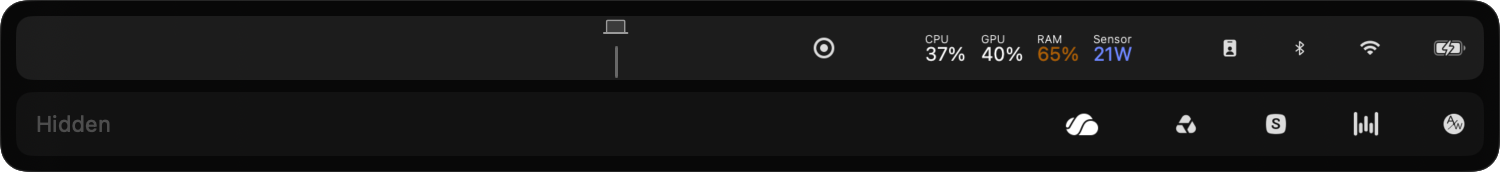
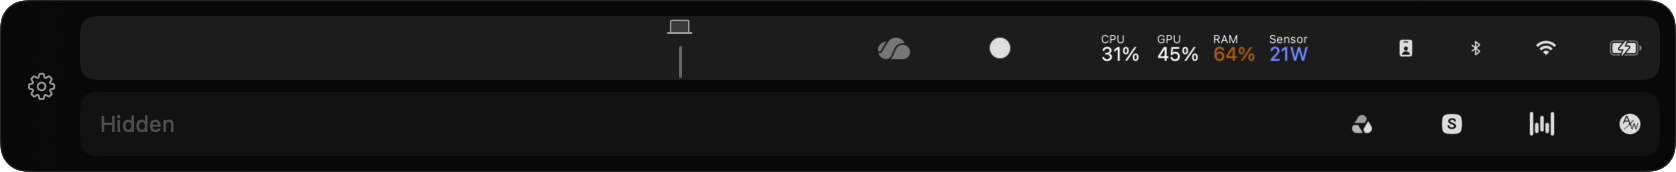
Add a Settings gear to Arrange
Settings was only reachable by right-clicking Arrange or pressing ⌘,,
which nobody could see. A gear at the left end of Arrange opens it now,
out of the way of the rows. The welcome tour's Settings page points to it.

diff --git a/Perch/Panel/WelcomeView.swift b/Perch/Panel/WelcomeView.swift
@@ -140,7 +140,7 @@ struct WelcomeView: View {
 
         case .settings:
             title("Settings")
-            para("To open Settings, right-click Arrange and choose Settings, or press ⌘, while Arrange is open. Opening Perch from the Applications folder also opens Settings.")
+            para("To open Settings, click the gear at the left end of Arrange. You can also press ⌘, while Arrange is open, or open Perch from the Applications folder.")
             Grid(alignment: .leading, horizontalSpacing: 16, verticalSpacing: 10) {
                 GridRow {
                     Text("Open at login").foregroundStyle(.secondary)
@@ -340,9 +340,15 @@ private struct MiniArrange: View {
     private let hidden = ["cloud", "camera.viewfinder"]
 
     var body: some View {
-        VStack(alignment: .trailing, spacing: 6) {
-            row(shown, fill: 0.10)
-            row(hidden, fill: 0.04, label: "Hidden")
+        HStack(spacing: 6) {
+            Image(systemName: "gearshape")
+                .font(.system(size: 11))
+                .foregroundStyle(.secondary)
+                .frame(width: 20)
+            VStack(alignment: .trailing, spacing: 6) {
+                row(shown, fill: 0.10)
+                row(hidden, fill: 0.04, label: "Hidden")
+            }
         }
         .padding(8)
         .frame(width: 340)
@@ -360,7 +366,7 @@ private struct MiniArrange: View {
                     .font(.system(size: 11, weight: .semibold))
                     .foregroundStyle(Color.accentColor)
             }
-            .offset(x: 150, y: 22)
+            .offset(x: 170, y: 22)
         }
     }
 
@@ -418,19 +424,24 @@ private struct MiniSettings: View {
     var body: some View {
         HStack(spacing: 22) {
             VStack(alignment: .leading, spacing: 6) {
-                Text("Right-click Arrange")
+                Text("In Arrange")
                     .font(.system(size: 10))
                     .foregroundStyle(.secondary)
                     .fixedSize()
-                VStack(alignment: .leading, spacing: 6) {
-                    Text("Settings…").font(.system(size: 12))
-                        .padding(.horizontal, 10).padding(.vertical, 4)
-                        .background(Color.accentColor, in: RoundedRectangle(cornerRadius: 5))
+                // The left end of Arrange, with its gear.
+                HStack(spacing: 6) {
+                    Image(systemName: "gearshape")
+                        .font(.system(size: 12))
                         .foregroundStyle(.white)
-                    Text("Quit Perch").font(.system(size: 12)).padding(.horizontal, 10)
+                        .frame(width: 24, height: 24)
+                        .background(Color.accentColor, in: Circle())
+                    VStack(spacing: 5) {
+                        RoundedRectangle(cornerRadius: 5).fill(Color.white.opacity(0.10)).frame(width: 70, height: 20)
+                        RoundedRectangle(cornerRadius: 5).fill(Color.white.opacity(0.04)).frame(width: 70, height: 20)
+                    }
                 }
-                .padding(6)
-                .perchSurface(RoundedRectangle(cornerRadius: 8, style: .continuous))
+                .padding(7)
+                .perchSurface(RoundedRectangle(cornerRadius: 10, style: .continuous))
                 .shadow(color: .black.opacity(0.2), radius: 4, y: 2)
             }
 

diff --git a/Perch/Panel/ArrangeView.swift b/Perch/Panel/ArrangeView.swift
@@ -561,9 +561,13 @@ struct ArrangePanelView: View {
     }
 
     var body: some View {
-        // Just the rows. Settings and Quit are a right-click (or ⌘,) away.
-        ArrangeBar(engine: engine, preferences: preferences, permissions: permissions,
-                   images: images, onOpenItem: onOpenItem, maxWidth: maxWidth)
+        // The rows, and a gear for Settings on the left, where the rows have
+        // room. Settings and Quit are also a right-click (or ⌘,) away.
+        HStack(spacing: 6) {
+            SettingsGear(action: onOpenSettings)
+            ArrangeBar(engine: engine, preferences: preferences, permissions: permissions,
+                       images: images, onOpenItem: onOpenItem, maxWidth: maxWidth)
+        }
             .padding(8)
             .frame(minWidth: 280, alignment: .leading)
             .fixedSize()
@@ -579,5 +583,25 @@ struct ArrangePanelView: View {
                     .opacity(0)
                     .allowsHitTesting(false)
             }
+    }
+}
+
+private struct SettingsGear: View {
+    let action: () -> Void
+    @State private var hovering = false
+
+    var body: some View {
+        Button(action: action) {
+            Image(systemName: "gearshape")
+                .font(.system(size: 13))
+                .foregroundStyle(hovering ? .primary : .secondary)
+                .frame(width: 26, height: 26)
+                .background(Circle().fill(Color.white.opacity(hovering ? 0.12 : 0)))
+                .contentShape(Circle())
+        }
+        .buttonStyle(.plain)
+        .onHover { hovering = $0 }
+        .help("Settings")
+        .accessibilityLabel("Settings")
     }
 }

diff --git a/docs/HANDOFF.md b/docs/HANDOFF.md
@@ -42,6 +42,7 @@
 36. `perch-minimal-arrange`: Arrange is just its rows: no title, no ⋯ button, no label column. Hidden and Turned off name themselves faintly inside the row when there's room; the bar row shows a spinner there while icons move. The whole panel takes the menu bar's look when it has icon pictures, like Perch's bar. Settings and Quit are a right-click on the panel, or ⌘,.
 37. `perch-minimal-welcome`: a six-page welcome tour in its own window on first launch: what Perch is, Accessibility (live), click to see hidden icons, right-click to arrange, Spotlight, and where Settings are (with Open at login and the bar item right there). Each page has a try-it button. Settings has a Welcome Tour link to reopen it.
 38. `perch-dark-bar`: Perch's bar is a dark pill and Arrange uses the same dark glass (`perchSurface`), so both stand out over any window. Icon pictures taken on a light menu bar are inverted with their hue kept (`LightOnDark`). `MatchIconColors` is gone.
+39. `perch-settings-gear`: a gear at the left end of Arrange opens Settings (right-click and ⌘, still work). The tour's Settings page points to it.
 
 ## macOS 26 facts
 - Reading or writing another app's sandbox container (~/Library/Containers/<id>) triggers the "access data from other apps" prompt (kTCCServiceSystemPolicyAppData) and the call blocks until it's answered. Perch tells sandboxed apps by their code signature, never by touching the container.

diff --git a/docs/FEATURES.md b/docs/FEATURES.md
@@ -30,7 +30,7 @@ Perch is a light menu bar manager for macOS. The goal: the menu bar macOS should
 | Spotlight | Every icon is a Core Spotlight item, re-indexed only when the set of icons changes. Picking one opens its menu, even when hidden. |
 | Shortcuts | App Intents: Show Hidden Icons, Arrange Menu Bar, Open Menu Bar Icon (any icon, by name). |
 | Spacing | Slider for `NSStatusItemSpacing` and `NSStatusItemSelectionPadding`. Apply restarts Control Center, so Apple's icons change at once; other apps pick it up the next time they open. Perch never restarts them. |
-| Settings | One short page: open at login, what Perch shows in the bar, exact pictures, icon spacing, version, Welcome Tour and Quit. |
+| Settings | The gear at the left end of Arrange (or ⌘, while Arrange is open). One short page: open at login, what Perch shows in the bar, exact pictures, icon spacing, version, Welcome Tour and Quit. |
 | Welcome tour | On first launch: six pages in a window (what Perch is, Accessibility, click for hidden icons, right-click to arrange, Spotlight, where Settings are), each with a button to try it. Reopen from Settings. |
 
 ## Next

diff --git a/README.md b/README.md
@@ -24,7 +24,7 @@ Perch uses about 15 MB of memory and no CPU while idle. It reacts to events and 
 ## Using it
 
 - **Click** empty menu bar space (or Perch's line or icon): Perch's bar.
-- **Right-click** empty menu bar space: Arrange. Drag icons to reorder them. Right-click it (or press ⌘,) for Settings and Quit.
+- **Right-click** empty menu bar space: Arrange. Drag icons to reorder them. The gear on its left opens Settings; right-click it for Settings and Quit.
 - **Spotlight**: "Arrange Menu Bar" opens Arrange too.
 - **⌘Space**, then an icon's name: open that icon's menu.
 
